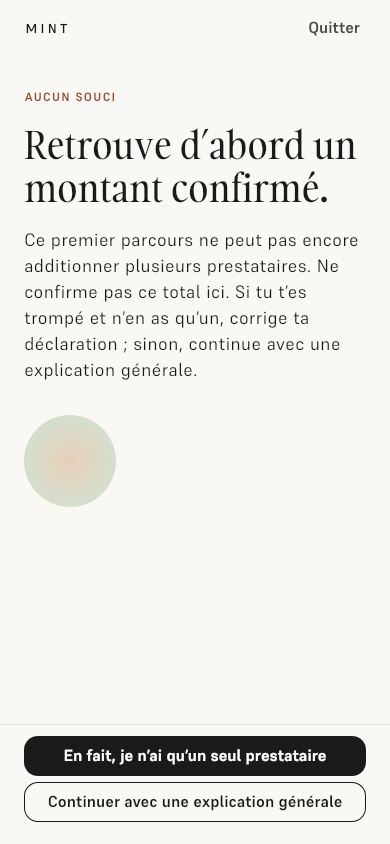
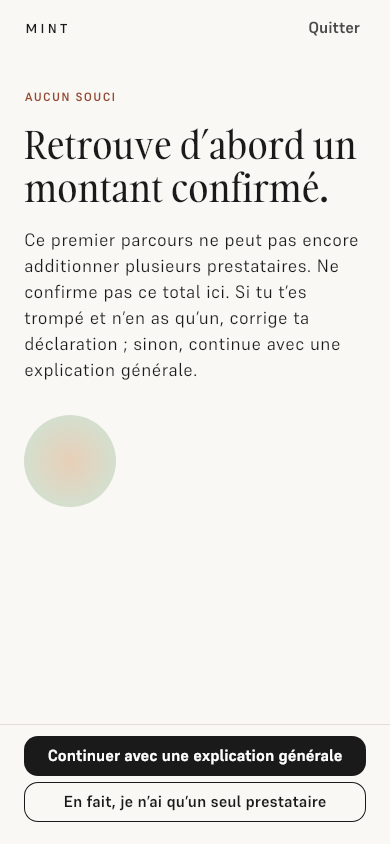
fix(batch12): prioritize truthful multi-provider path

Changed region(s): [[0.1231, 0.8626, 0.8923, 0.955]]

diff --git a/product/mint_next/batch7/design_lab/lib/design_lab_app.dart b/product/mint_next/batch7/design_lab/lib/design_lab_app.dart
@@ -1104,22 +1104,38 @@ class _ContributedAmountUnknownHelp extends StatelessWidget {
       body: partial ? l10n.batch11HelpPartialBody : l10n.batch11HelpUnknownBody,
       accent: const _QuietOrb(),
       actions: [
-        MintDesignLabAction(
-          key: const ValueKey(
-            'action:contributed_amount_unknown_help.found_amount',
+        if (partial)
+          MintDesignLabAction(
+            key: const ValueKey(
+              'action:contributed_amount_unknown_help.continue_education_only',
+            ),
+            label: l10n.batch11HelpEducationOnly,
+            onPressed: onContinueEducation,
+          )
+        else
+          MintDesignLabAction(
+            key: const ValueKey(
+              'action:contributed_amount_unknown_help.found_amount',
+            ),
+            label: l10n.batch11HelpFoundFirst,
+            onPressed: onFoundAmount,
           ),
-          label: partial
-              ? l10n.batch11HelpFoundPartial
-              : l10n.batch11HelpFoundFirst,
-          onPressed: onFoundAmount,
-        ),
-        MintDesignLabAction.secondary(
-          key: const ValueKey(
-            'action:contributed_amount_unknown_help.continue_education_only',
+        if (partial)
+          MintDesignLabAction.secondary(
+            key: const ValueKey(
+              'action:contributed_amount_unknown_help.found_amount',
+            ),
+            label: l10n.batch11HelpFoundPartial,
+            onPressed: onFoundAmount,
+          )
+        else
+          MintDesignLabAction.secondary(
+            key: const ValueKey(
+              'action:contributed_amount_unknown_help.continue_education_only',
+            ),
+            label: l10n.batch11HelpEducationOnly,
+            onPressed: onContinueEducation,
           ),
-          label: l10n.batch11HelpEducationOnly,
-          onPressed: onContinueEducation,
-        ),
         if (!partial)
           MintDesignLabAction.text(
             key: const ValueKey('action:contributed_amount_unknown_help.back'),
